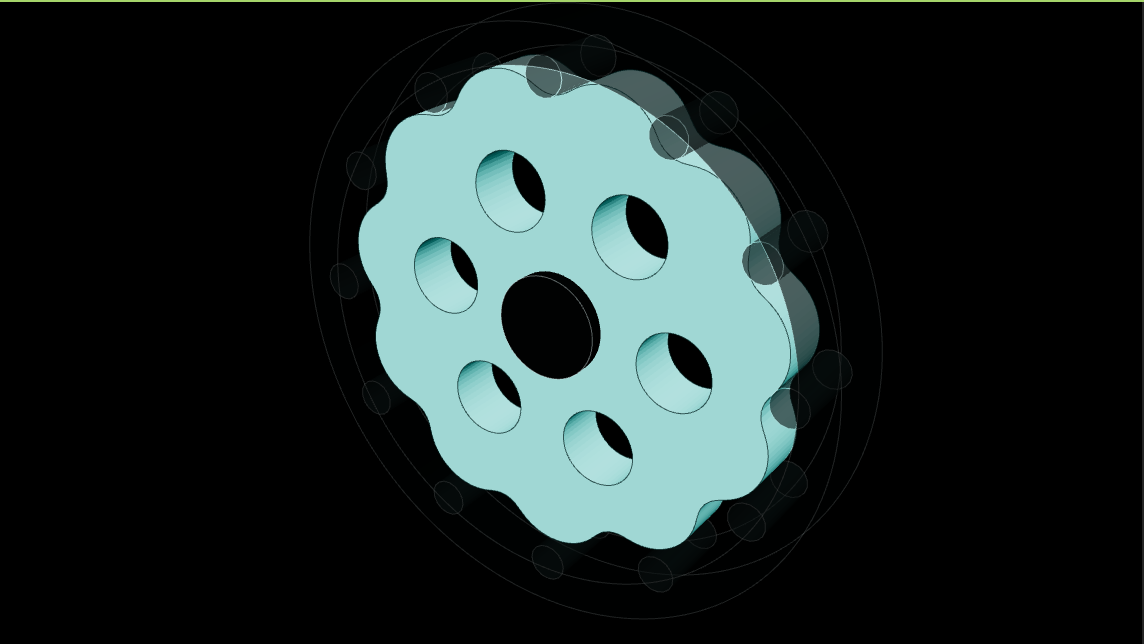
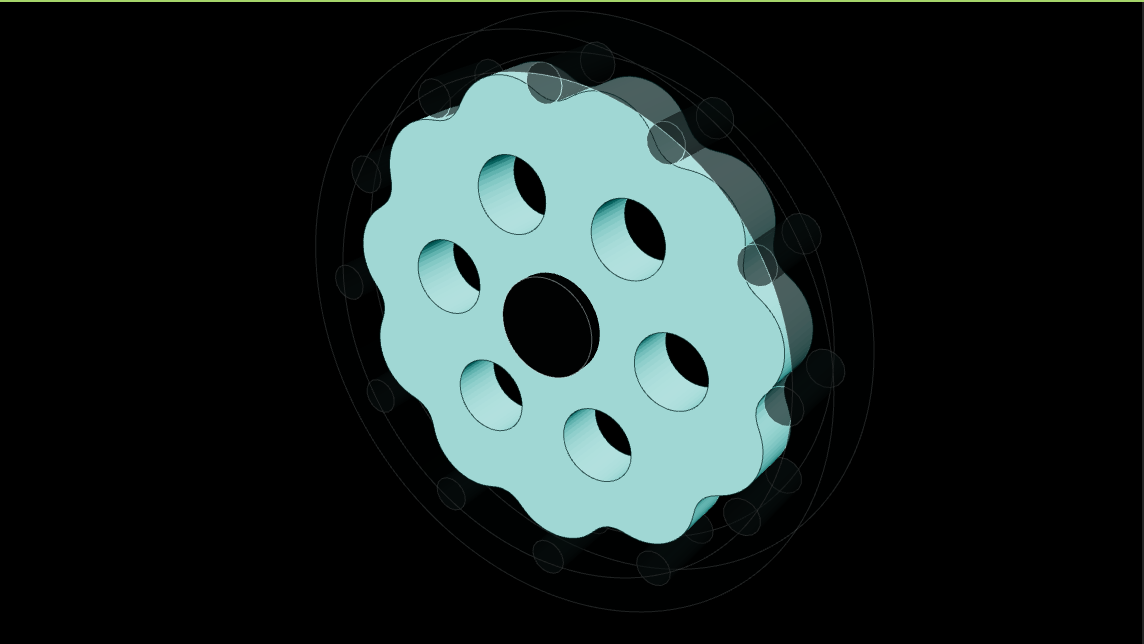
🐛 /alts: frame the full cycloid housing; qualify the drive-motor comment
The cycloid-disc extent now matches pinRing (radius + 2.4 pin radii, pins
1.5 times the thickness), so the camera frames the whole fixed ring;
cycloidal poster recaptured. The drive-motor comment names transmissions
without magnets of their own.

Claude-Session: https://claude.ai/code/session_015gyosLx9NDFDXnwjpMq6Jf

diff --git a/src/supply-chain/scenes/motion.ts b/src/supply-chain/scenes/motion.ts
@@ -86,10 +86,12 @@ const EXTENT: { [K in PartKind]: (p: PartPropsByKind[K]) => Extent } = {
     }),
     "wave-generator": (p) => ({ r: p.major, h: p.width / 2 }),
     "circular-spline": (p) => ({ r: p.outer, h: p.width / 2 }),
-    "cycloid-disc": (p) => ({
-        r: p.radius + (p.pins || p.pinsOnly ? 2 * p.pinRadius : 0),
-        h: p.thickness / 2,
-    }),
+    // With the housing: its ring's outer edge (radius + 2.4 pin radii, as in
+    // pinRing) and pins 1.5 times the disc thickness.
+    "cycloid-disc": (p) =>
+        p.pins || p.pinsOnly
+            ? { r: p.radius + 2.4 * p.pinRadius, h: (p.thickness * 1.5) / 2 }
+            : { r: p.radius, h: p.thickness / 2 },
     "ball-screw": (p) => {
         const nut = p.nutLength ? (p.nutOuter ?? p.diameter * 0.95) * 1.45 : 0;
         return { r: Math.max(p.diameter / 2, nut), h: p.length / 2 };

diff --git a/src/supply-chain/alts/types.ts b/src/supply-chain/alts/types.ts
@@ -66,7 +66,8 @@ export const MAGNET_USE_LABEL: Record<MagnetUse, string> = {
     "iron-nitride": "Iron nitride magnets",
     permanent: "Permanent magnets",
     motor: "Set by its pump motor",
-    // A transmission has no magnets itself, but the motor driving it may.
+    // A transmission without magnets of its own (not a magnetic gear): the
+    // motor driving it decides the magnet content.
     "drive-motor": "Depends on its motor",
 };
 
